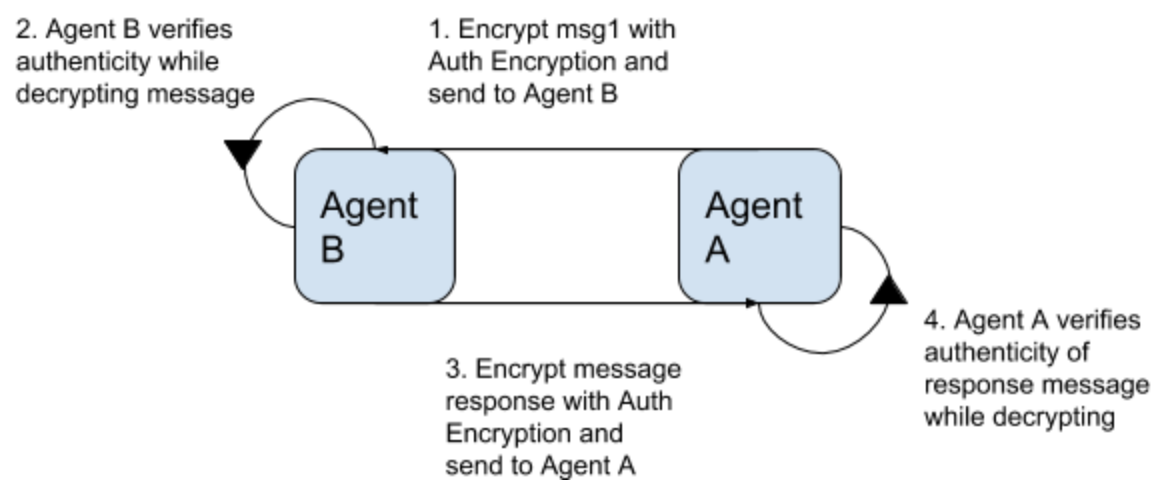
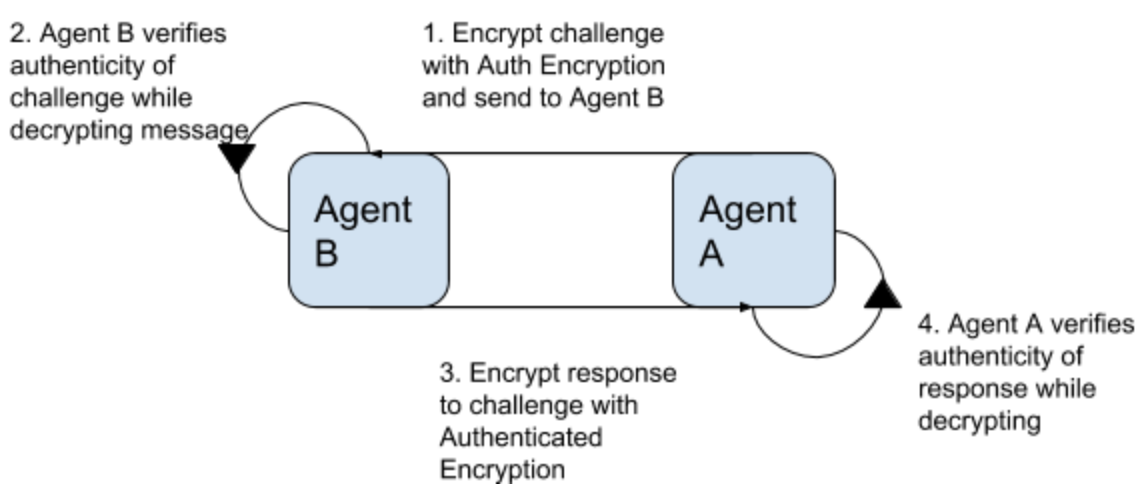
updated to fit challenge response flow

diff --git a/draft-documents/did_auth_draft.md b/draft-documents/did_auth_draft.md
@@ -531,7 +531,7 @@ References:
 
 ![DID Auth Diagram 10](./media/Did_Auth_Diagrams10.png)
 
-_Identity owner's_ **service (or agent, or hub, etc.)** sends an Auth-Encrypted Message to _relying party_'s **service (or agent, or hub, etc.)**. This message is then decrypted and authenticated by relying party_'s **service (or agent, or hub, etc.)** as a part of the decryption process.
+_Identity owner's_ **service (or agent, or hub, etc.)** sends an Auth-Encrypted challenge to _relying party_'s **service (or agent, or hub, etc.)**. This challenge is then decrypted and authenticated by relying party_'s **service (or agent, or hub, etc.)** as a part of the decryption process. relying party_'s **service (or agent, or hub, etc.)** then encrypts a response message with Authenticated encryption and sends to _Identity owner's_ **service (or agent, or hub, etc.)** which decrypts and authenticates the response of the challenge.
 
 
 # Relation to other Technologies
